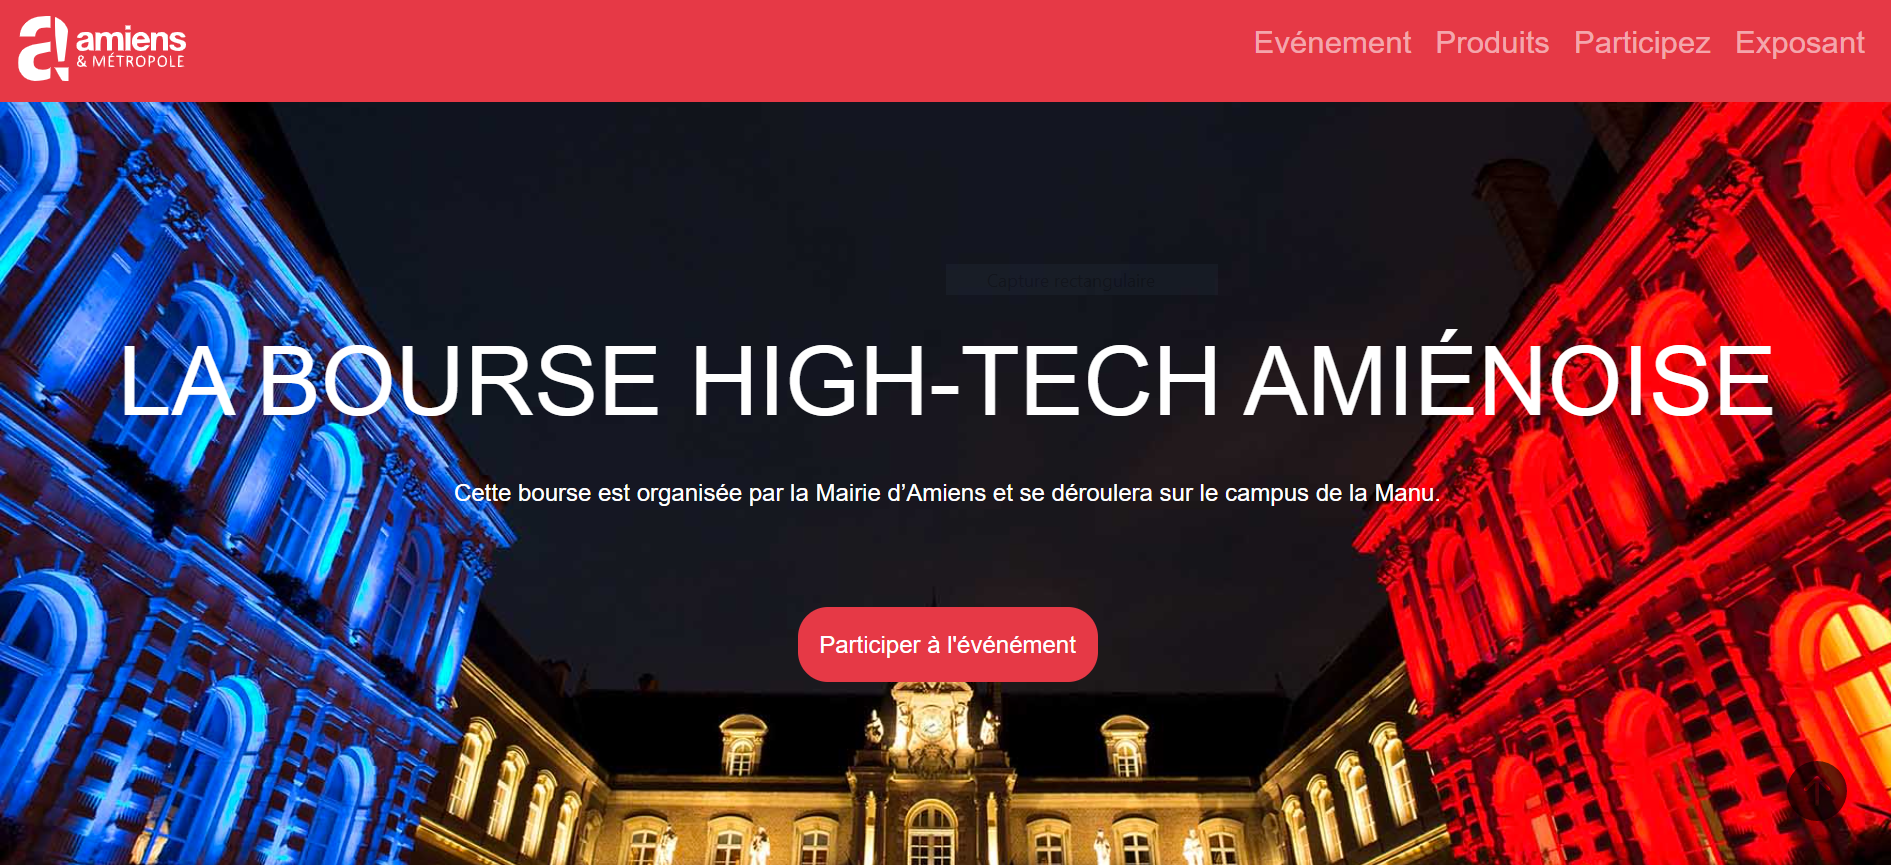
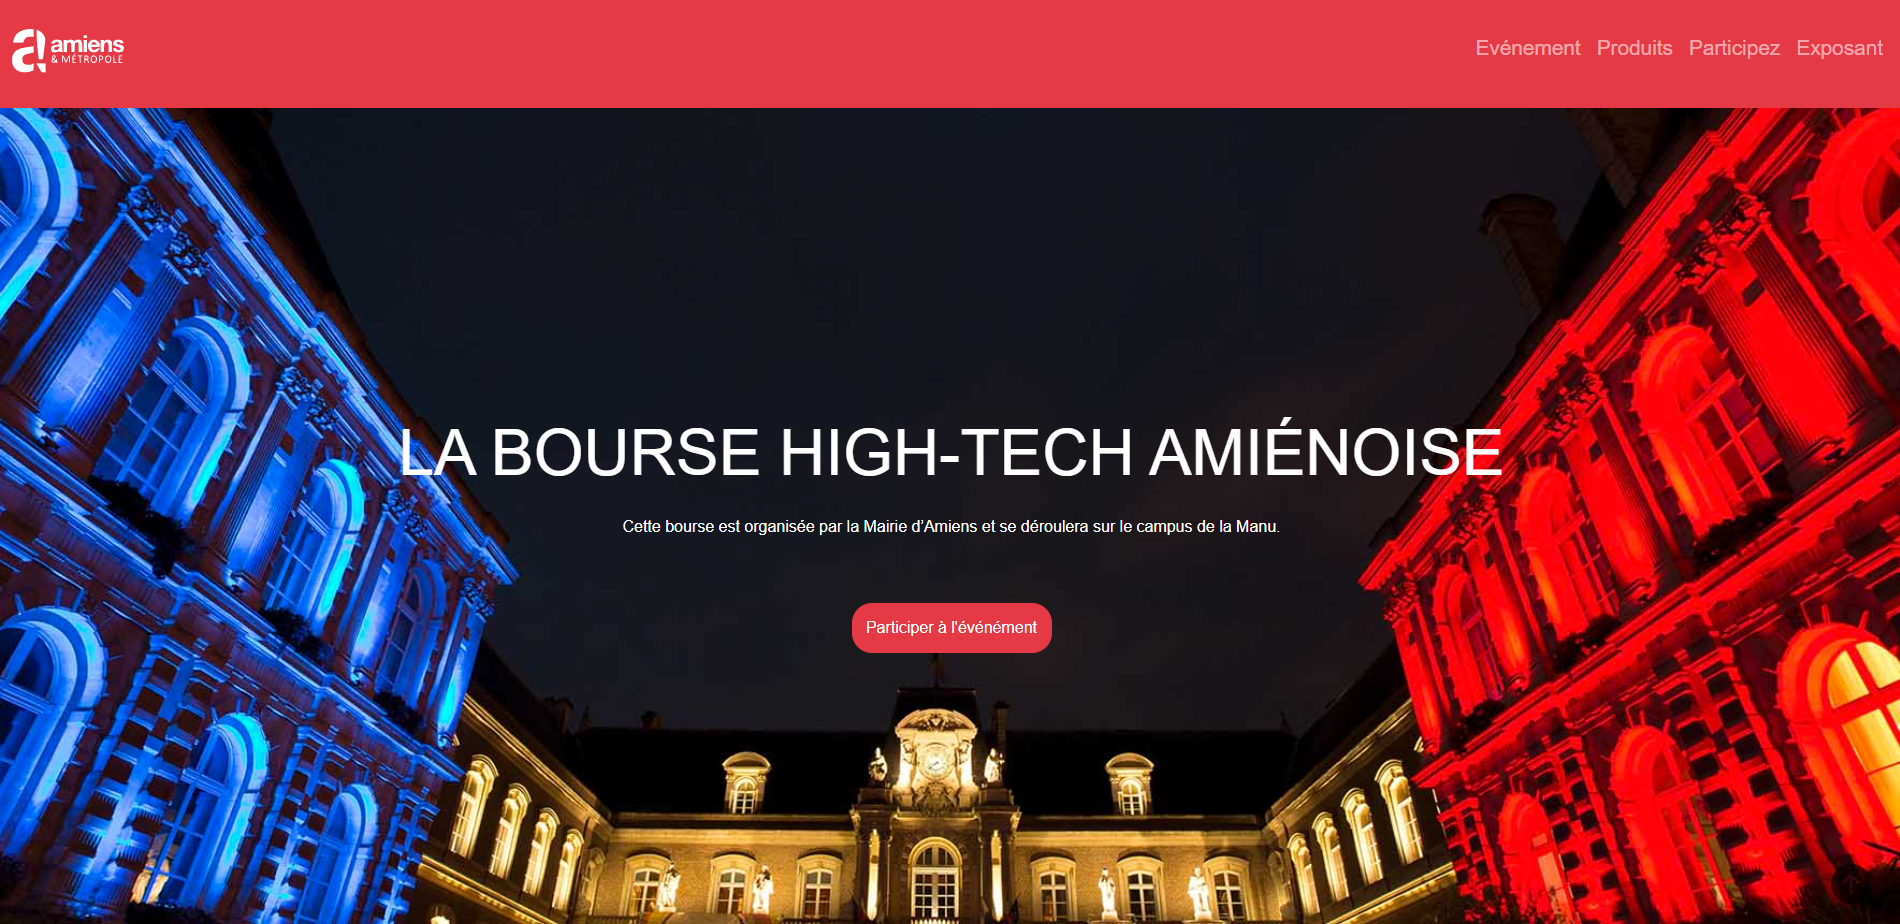
Adaptation mode desktop

diff --git a/index.html b/index.html
@@ -34,10 +34,27 @@
                     <i class="menuIcon fas fa-bars"></i>
                 </label>
             </div>
+            <section id="projectsDesktop">
+                <h2>Mes projets</h2>
+                <div class="project1">
+                    <a href="https://crigaux.github.io/cardCollection/" target="_blank" class="viewMore">Voir plus</a>
+                </div>
+                <div class="project2">
+                    <a href="https://crigaux.github.io/bourseHighTechResponsive/" target="_blank" class="viewMore">Voir plus</a>
+                </div>
+                <div class="project3">
+                    <a href="https://crigaux.github.io/cardCollection/" target="_blank" class="viewMore">Voir plus</a>
+                </div>
+                <div class="project4">
+                    <a href="https://crigaux.github.io/cardCollection/" target="_blank" class="viewMore">Voir plus</a>
+                </div>
+            </section>
             <section id="about">
                 <h2>À propos</h2>
                 <h2 class="name">Claude Rigaux</h2>
-                <p>Lorem ipsum dolor sit amet, consectetur adipisicing elit. Explicabo laudantium, aperiam suscipit quasi maiores quia odio accusamus voluptatibus, repudiandae hic vel unde quidem odit minus obcaecati. Itaque dignissimos eos aliquam?</p>
+                <p>
+                    Actuellement en formation comme développeur web et web mobile à <a href="">la Manu Amiens</a>. J'apprends à gérer la création d'un site web responsive, utilisable sur tous les types de devices, du maquettage à l'intégration.
+                </p>
             </section>
             <section id="skills">
                 <h2>Compétences</h2>
@@ -70,9 +87,11 @@
             </section>
             <footer id="footer">
                 <hr>
+                <p>Contacts</p>
                 <div>
-                    <i class="footerIcon fa-brands fa-linkedin fa-3x"></i>
-                    <i class="footerIcon fa-brands fa-github fa-3x"></i>
+                    <i class="footerIcon fa-solid fa-envelope fa-2x"></i>
+                    <i class="footerIcon fa-brands fa-linkedin fa-2x"></i>
+                    <i class="footerIcon fa-brands fa-github fa-2x"></i>
                 </div>
             </footer>
         </div>

diff --git a/public/assets/css/styleDark.css b/public/assets/css/styleDark.css
@@ -19,6 +19,10 @@
     box-sizing: border-box;
 }
 
+html {
+    scroll-behavior: smooth;
+}
+
 body {
     font-family: "Montserrat";
     background-color: #0f0f0f;
@@ -70,7 +74,7 @@ h3 {
 
 footer {
     display: flex;
-    justify-content: center;
+    justify-content: space-around;
     flex-direction: column;
     align-items: center;
     color: white;
@@ -136,7 +140,7 @@ footer {
 .menu_overlay ul {
     height: 70%;
     width: 100%;
-    margin-top: 15%;
+    margin-top: 10%;
     list-style: none;
     font-size: 2.5rem;
     display: flex;
@@ -194,6 +198,10 @@ a {
 
 /* ----- Home Page ----- */
 
+#projectsDesktop {
+    display: none;
+}
+
 #about p {
     animation: titleAnim 1.5s ease-in;
 }
@@ -227,7 +235,13 @@ footer hr {
 }
 
 .footerIcon {
-    margin: 2rem;
+    margin: 0 2rem 2rem 2rem;
+}
+
+footer a {
+    margin-top: 2rem;
+    font-size: 1.2rem;
+    font-weight: bold;
 }
 
 /* ----- Projects Page ----- */
@@ -314,6 +328,49 @@ footer hr {
 }
 
 @media screen and (min-width : 1224px) {
+    .menuIcon {
+        margin-right: 50px;
+        font-size: 2.5rem;
+    }
+
+    .cross {
+        margin-right: 50px;
+        font-size: 2.5rem;
+    }
+
+    .logoWhite img {
+        height: 80px;
+        width: 80px;
+    }
+
+    .menu_overlay ul li a {
+        font-size: 3rem;
+    }
+
+    section {
+        margin-left: 10vw;
+    }
+
+    #projectsDesktop {
+        z-index: 1;
+        height: auto;
+        display: block;
+        padding: 5rem 0;
+        margin-top: 25vh;
+    }
+
+    #projectsDesktop h2 {
+        margin-top: 5vh;
+        height: 60vh;
+    }
+    
+    #projectsDesktop div {
+        height: 60vh;
+        width: 60vw;
+        margin-bottom: 35vh;
+        margin-left: 10vw;
+    }
+
     .toolsIconBox {
         display: flex;
         flex-direction: column;
@@ -337,10 +394,23 @@ footer hr {
         font-size: 1.5rem;
         width: 70%;
         margin: 5rem;
+        line-height: 3rem;
+    }
+
+    h3 {
+        font-size: 2rem;
     }
 
     .name {
-        font-size: 4rem;
-        
+        font-size: 4rem; 
+    }
+
+    footer {
+        height: 40vh;
+        justify-content: center;
+    }
+
+    footer p {
+        text-align: center;
     }
 }
